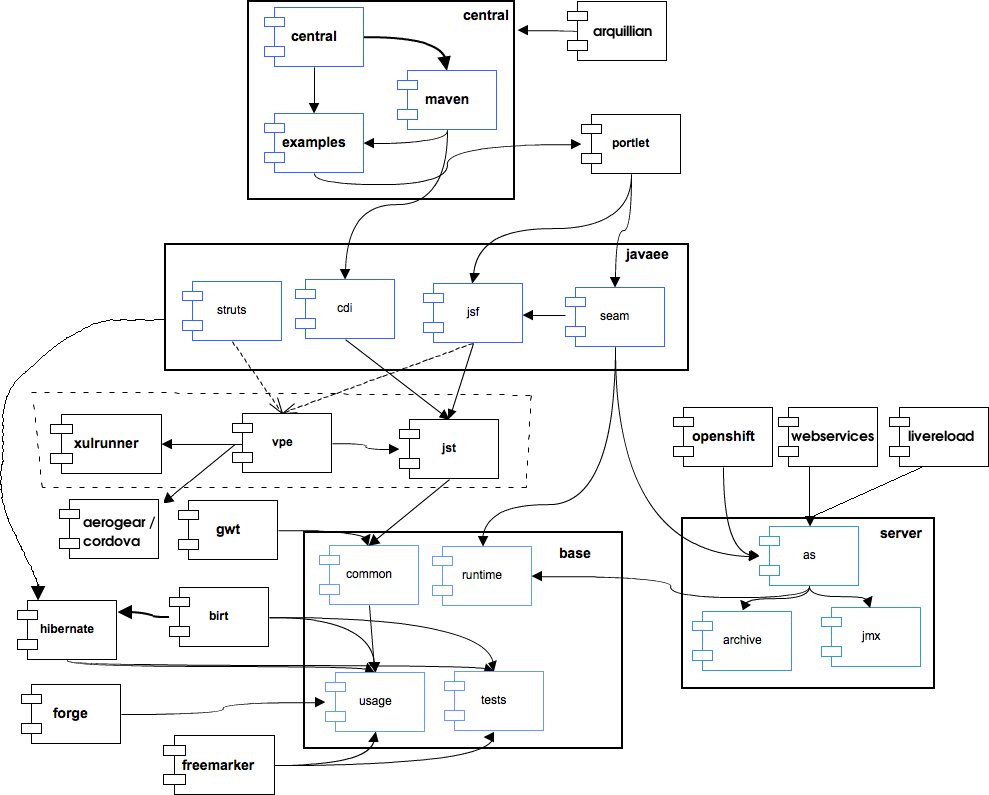
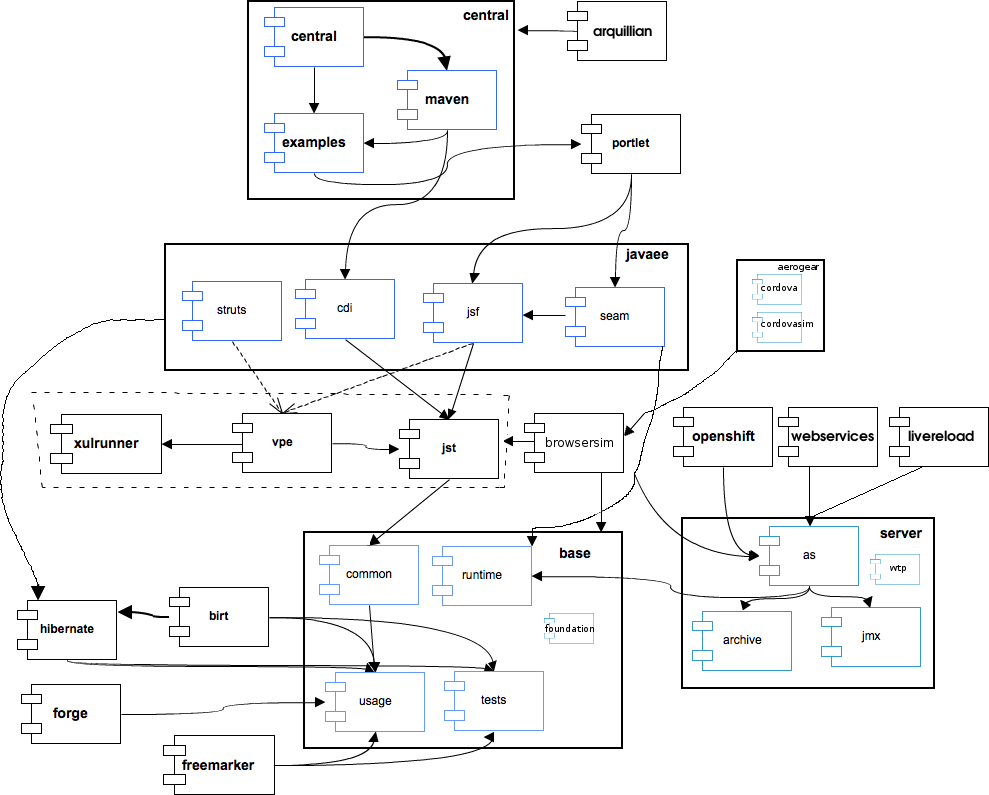
update swimlanes and how we build diagram to include new dependencies for aerogear, browsersim; add foundation and wtp into base and server

diff --git a/jbosstools/builds/cascade/swimlanes_42.html b/jbosstools/builds/cascade/swimlanes_42.html
@@ -30,15 +30,15 @@
 	</tr>
 	<tr bgcolor="#FFFFFF">
 		<td>VPE</td>
-		<td>Aerogear<!-- <b style="color:#1cd725;font-size:15px"> *</b> -->, XulRunner, JST, Server, Base</td>
+		<td>XulRunner, JST, Server, Base</td>
 	</tr>
 	<tr bgcolor="#EEEEEE">
-		<td>Aerogear / Cordova<!-- <b style="color:#1cd725;font-size:15px"> *</b> --></td>
-		<td>--</td>
+		<td>Aerogear (Cordova, Cordovasim) <b style="color:#1cd725;font-size:15px"> *</b></td>
+		<td>Browsersim, JST, Base</td>
 	</tr>
 	<tr bgcolor="#FFFFFF">
-		<td>XulRunner</td>
-		<td>--</td>
+		<td>Browsersim <b style="color:#1cd725;font-size:15px"> *</b></td>
+		<td>JST, Base</td>
 	</tr>
 	<tr bgcolor="#EEEEEE">
 		<td>JST</td>
@@ -84,6 +84,10 @@
 		<td>Base</td>
 		<td>--</td>
 	</tr>
+	<tr bgcolor="#FFFFFF">
+		<td>XulRunner</td>
+		<td>--</td>
+	</tr>
 	<tr><td>&nbsp;</td></tr>
 	<tr bgcolor="#DDDDDD">
 		<th>JBTIS Project</th>
@@ -101,7 +105,8 @@
 		<td>JBPM</td>
 		<td>Base</td>
 	</tr>
-	<tr><td colspan="3"><p><b style="color:darkred;font-size:15px">*</b> - <i><small>JST does not actually depend on Server, but in order to prevent the same dependency chain from appearing more than once (JavaEE -> Base, JST -> Base) and causing duplicate GAVs in the Tycho/Maven reactor, bootstrap profiles are as noted above.</small></i></p>
+	<tr><td colspan="3"><p><b style="color:#1cd725;font-size:15px"> *</b> - <i><small>New as of this release</small></i><br/><br/>
+		<b style="color:darkred;font-size:15px">*</b> - <i><small>JST does not actually depend on Server, but in order to prevent the same dependency chain from appearing more than once (JavaEE -> Base, JST -> Base) and causing duplicate GAVs in the Tycho/Maven reactor, bootstrap profiles are as noted above.</small></i></p>
 
 <br/><br/>
 	</td></tr>
